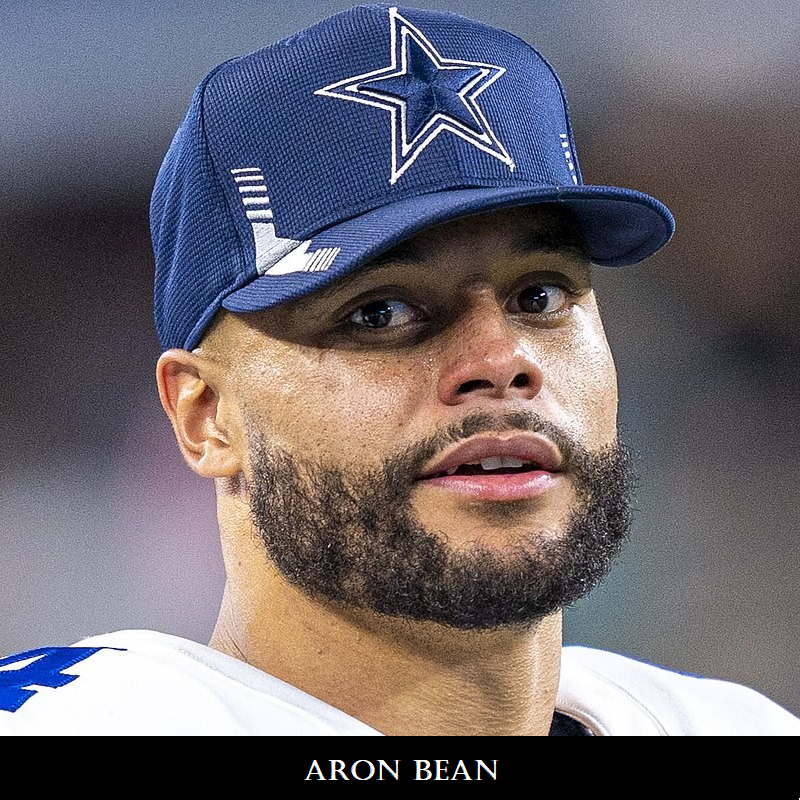
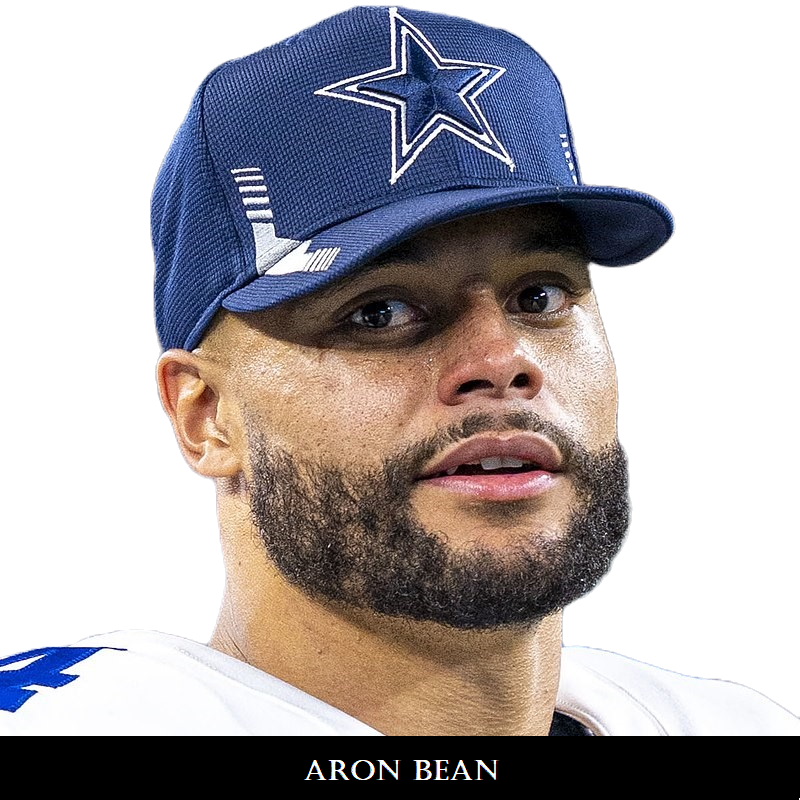
Did some more stuff with the about us images

diff --git a/index.css b/index.css
@@ -63,7 +63,7 @@ body {
 .hero h1 {
     display: flex;
     color:antiquewhite;
-    width: 60%;
+    width: 80%;
     height: 20%;
     margin-bottom: 0px;
     margin-top: 0px;
@@ -85,7 +85,7 @@ body {
 .hero p {
     font-style: italic;
     color:antiquewhite;
-    width: 60%;
+    width: 80%;
     text-align: center;
     height: 15%;
     margin-top: 0;
@@ -132,7 +132,7 @@ body {
 .container div:hover {
     width: 17rem;
     height: 17rem;
-    box-shadow: 0px 0px 10px 2px silver;
+    box-shadow: 0px 0px 20px 10px black;
     transition: .5s;
 
 }
@@ -186,6 +186,12 @@ body {
     background: url("index1/camera.jpg");
     background-size: cover;
 }
+
+.box4-hidden {
+    display: none;
+}
+
+
 
 .contact {
     width: 80%;
@@ -337,10 +343,7 @@ footer img {
 .portrait img {
     height: 20rem;
     width: 20rem;
-    border: 1px silver solid;
-    box-shadow: 0px 0px 0px .1rem black,
-    0px 0px 0px .2rem silver;
-    ;
+    background-size: cover;
 }
 
 /* contact page */
@@ -389,6 +392,8 @@ footer img {
     width: 40px;
     margin-top: 1rem;
 }
+
+
 .contact-info4 {
     width: 100%;
     height:25rem;

diff --git a/index2.html b/index2.html
@@ -33,9 +33,9 @@
     </div>
     
     <div class="portrait">
-    <img src="index2/zeke.jpg" />
+    <img src="index2/zeke.png" />
     <img src="index2/dak.jpg" />
-    <img src="index2/oldboat.jpg" />
+    <img src="index2/boat.png" />
     </div>
 
 

diff --git a/index4.html b/index4.html
@@ -33,7 +33,8 @@
           <h1>Hammer Head Charters</h1>
           <p>Contact Us</p>
           </div>
-      
+
+
     <div class='contact-info4'>
         <div class="contact-info4-div">
           <P class="call-us-header">Call or text us today!</P>
